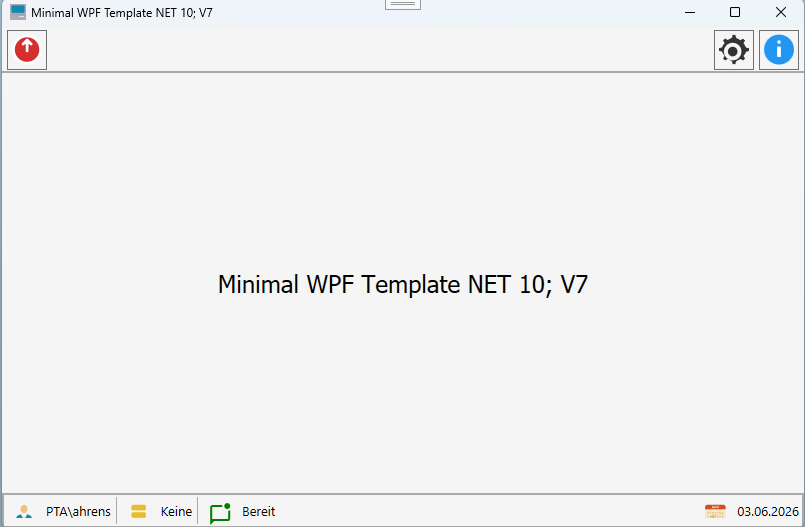
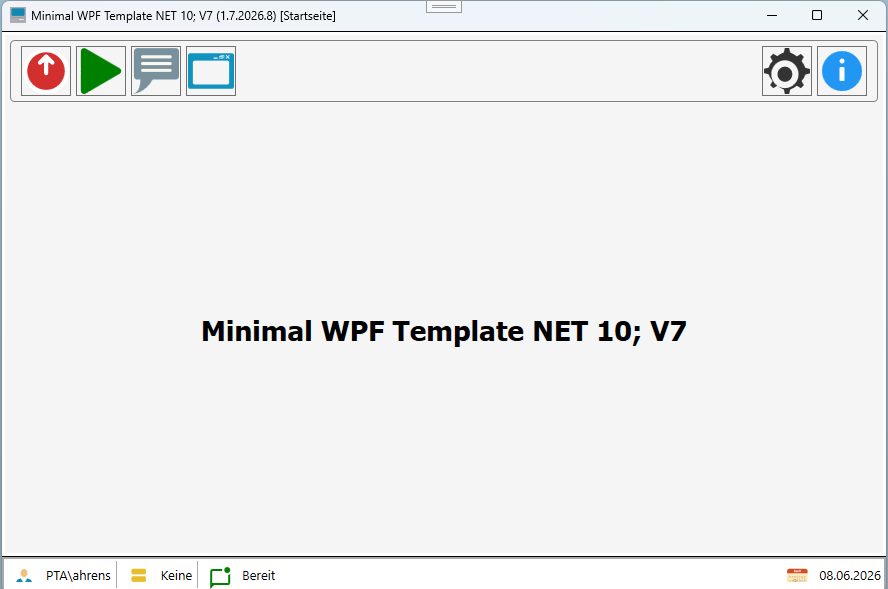
Zusätzliche Inhalte in der README.md

Changed region(s): [[0.0, 0.0, 1.0, 1.0], [0.2174, 0.5161, 0.7764, 0.6072]]

diff --git a/README.md b/README.md
@@ -14,6 +14,7 @@ Hauptaufgabe des Templates ist es, eine solide Basis für die Entwicklung von WP
 
 # Inhaltsverzeichnis
 1. [Installation](#installation)
+1. [Verwendung](#verwendung)
 1. [Features des Template](#features-des-template)
 1. [WindowBase](#windowbase)
 1. [Windows Titel Icon](#windows-titel-icon)
@@ -32,6 +33,13 @@ Hauptaufgabe des Templates ist es, eine solide Basis für die Entwicklung von WP
 Die Verwendung des Template ist recht einfach, da dieses nur in ein Verzeichnis kopiert werden muss, damit es in Visual Studio als Vorlage zur Verfügung steht. 
 
 `c:\_Documents\Visual Studio 18\Templates\ProjectTemplates\Visual C#\`
+
+# Verwendung
+nach der Installation stehen zwei Template Varianten zur Verfügung.
+- MinimalWPF: Ein einfaches WPF Projekt Template mit den grundlegenden Funktionen.
+- MinimalWPF SPA: Ein WPF Projekt Template mit Single Page Application Struktur.
+
+Grundsätztlich sind in beiden Template die gleichen Klassen und Funktionen enthalten, jedoch ist die SPA Variante bereits mit einer Navigation und einer Seitenstruktur ausgestattet, die es ermöglicht, mehrere Seiten innerhalb der Anwendung zu erstellen und zu navigieren. Dazu kommt die [Factory Pattern](#factory-pattern) und der [Event Aggregator](#event-aggregator) zum Einsatz.
 
 # Features des Template
 - Inside MVVM (durch WindowsBase Klasse)
